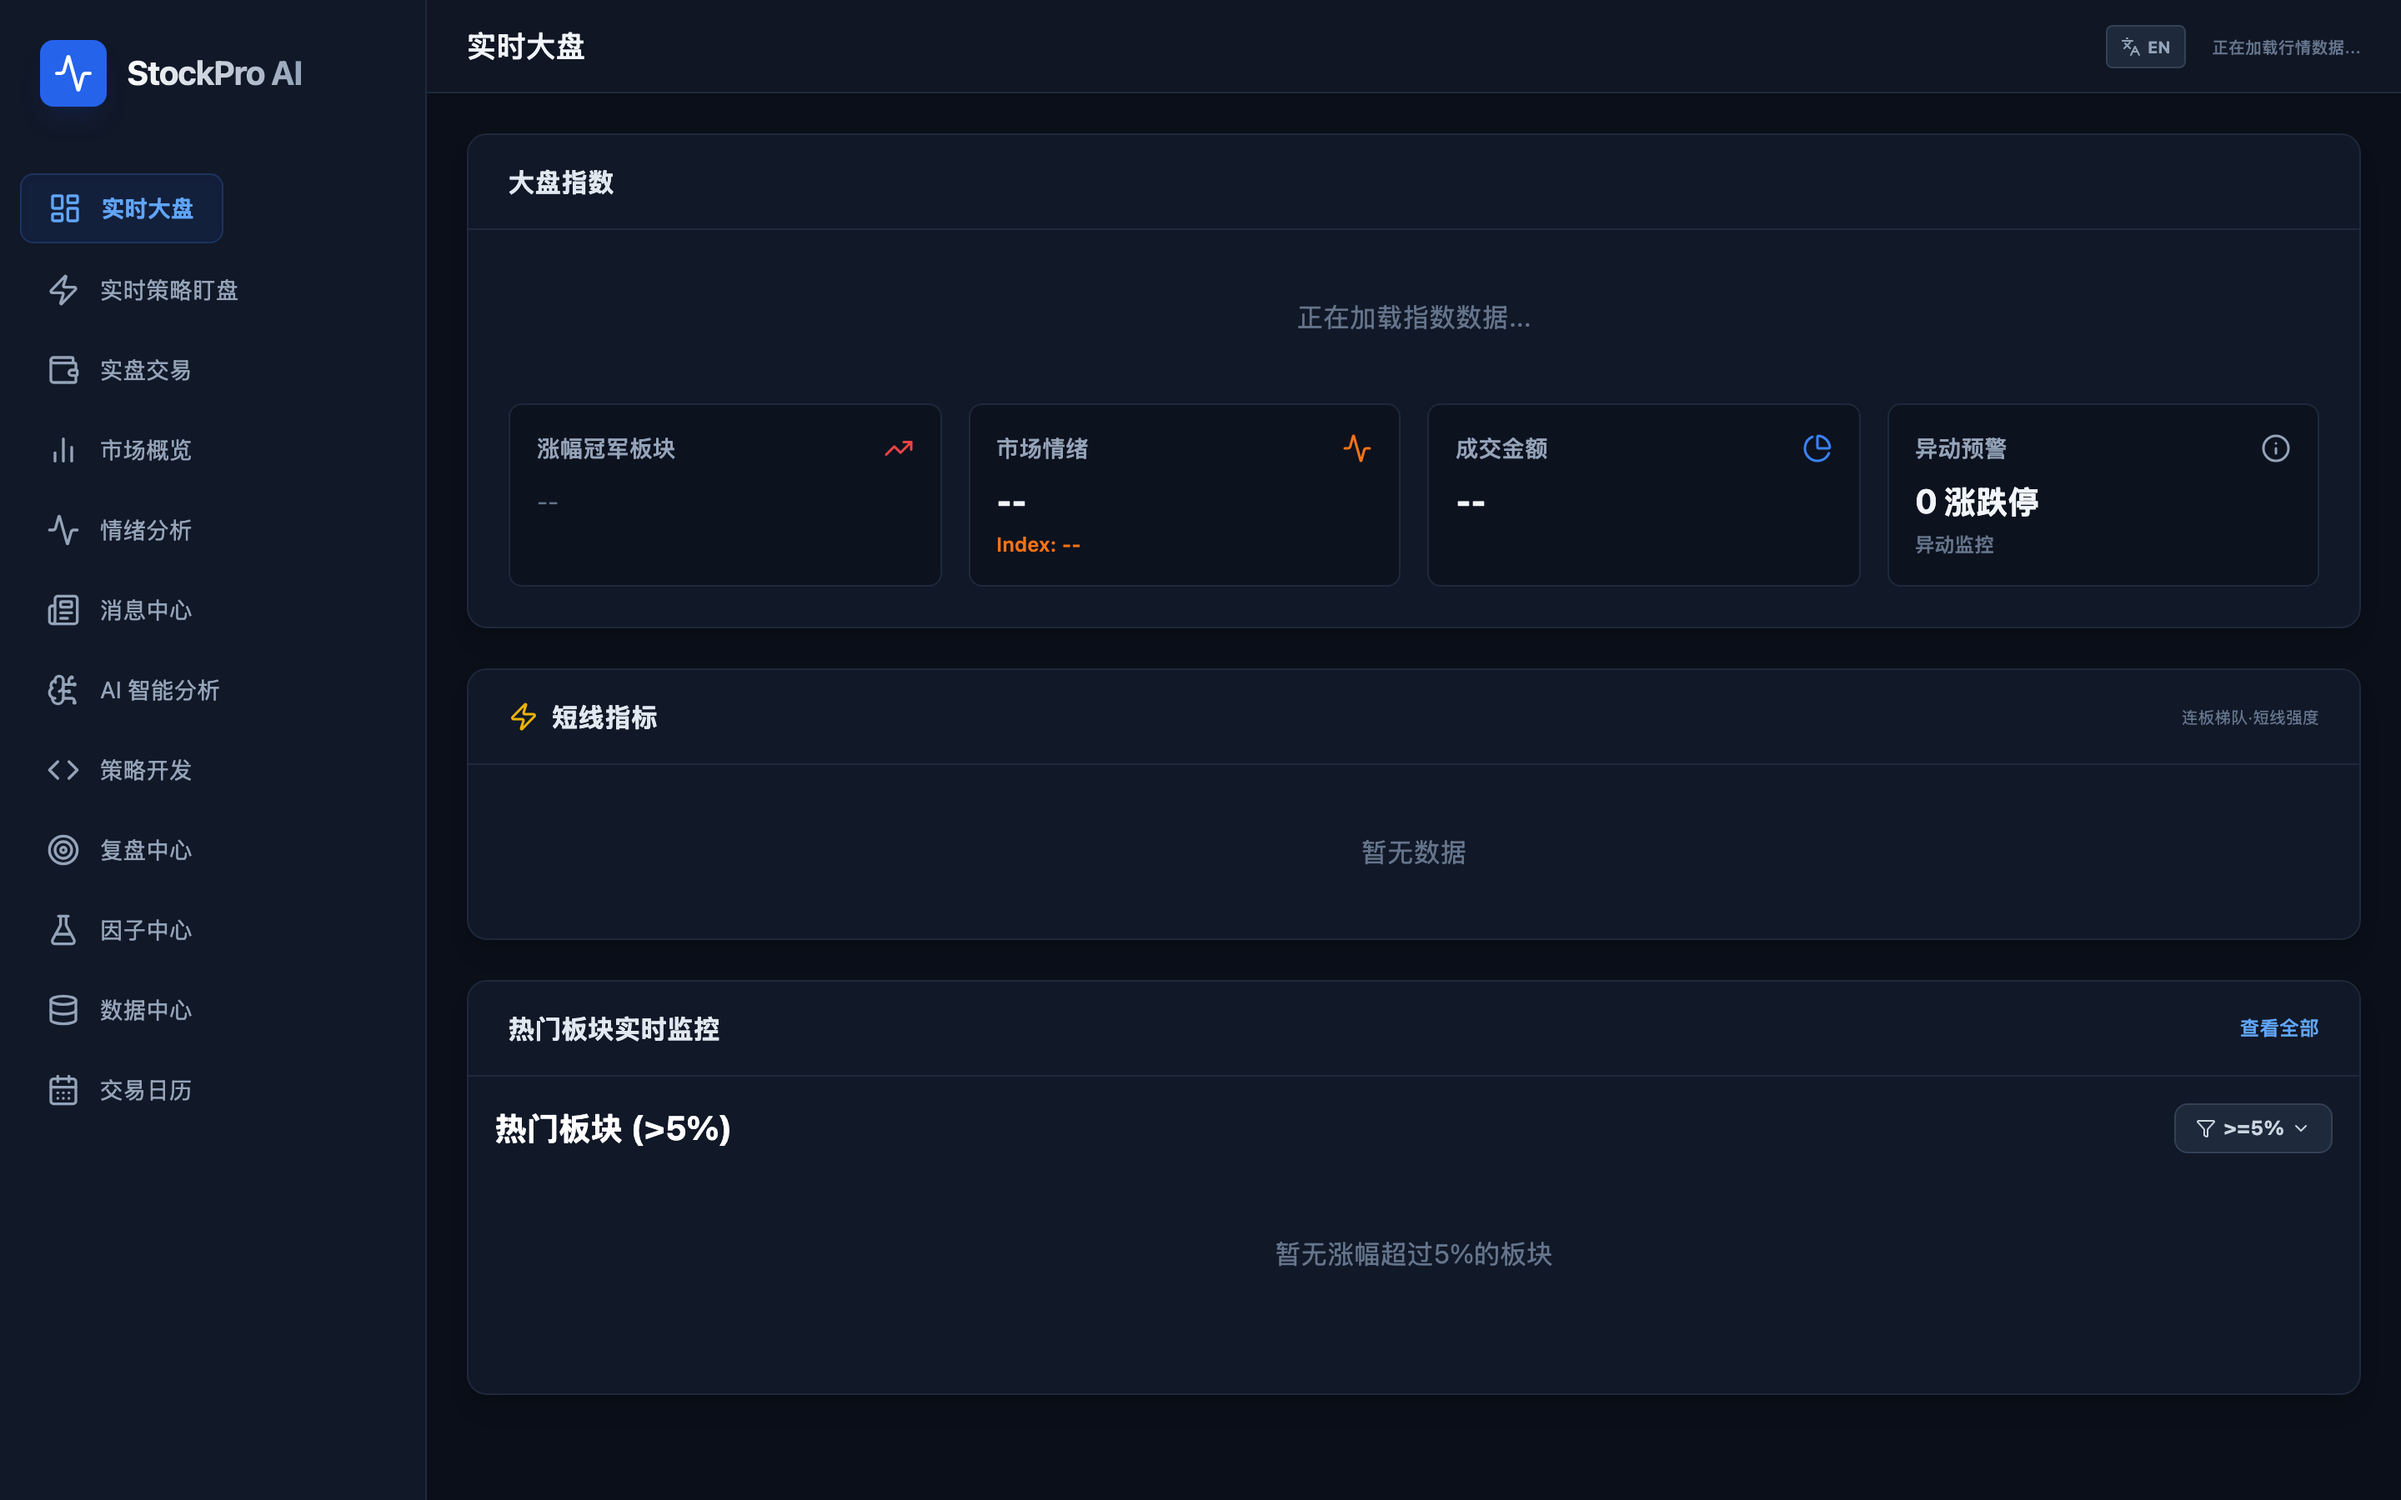
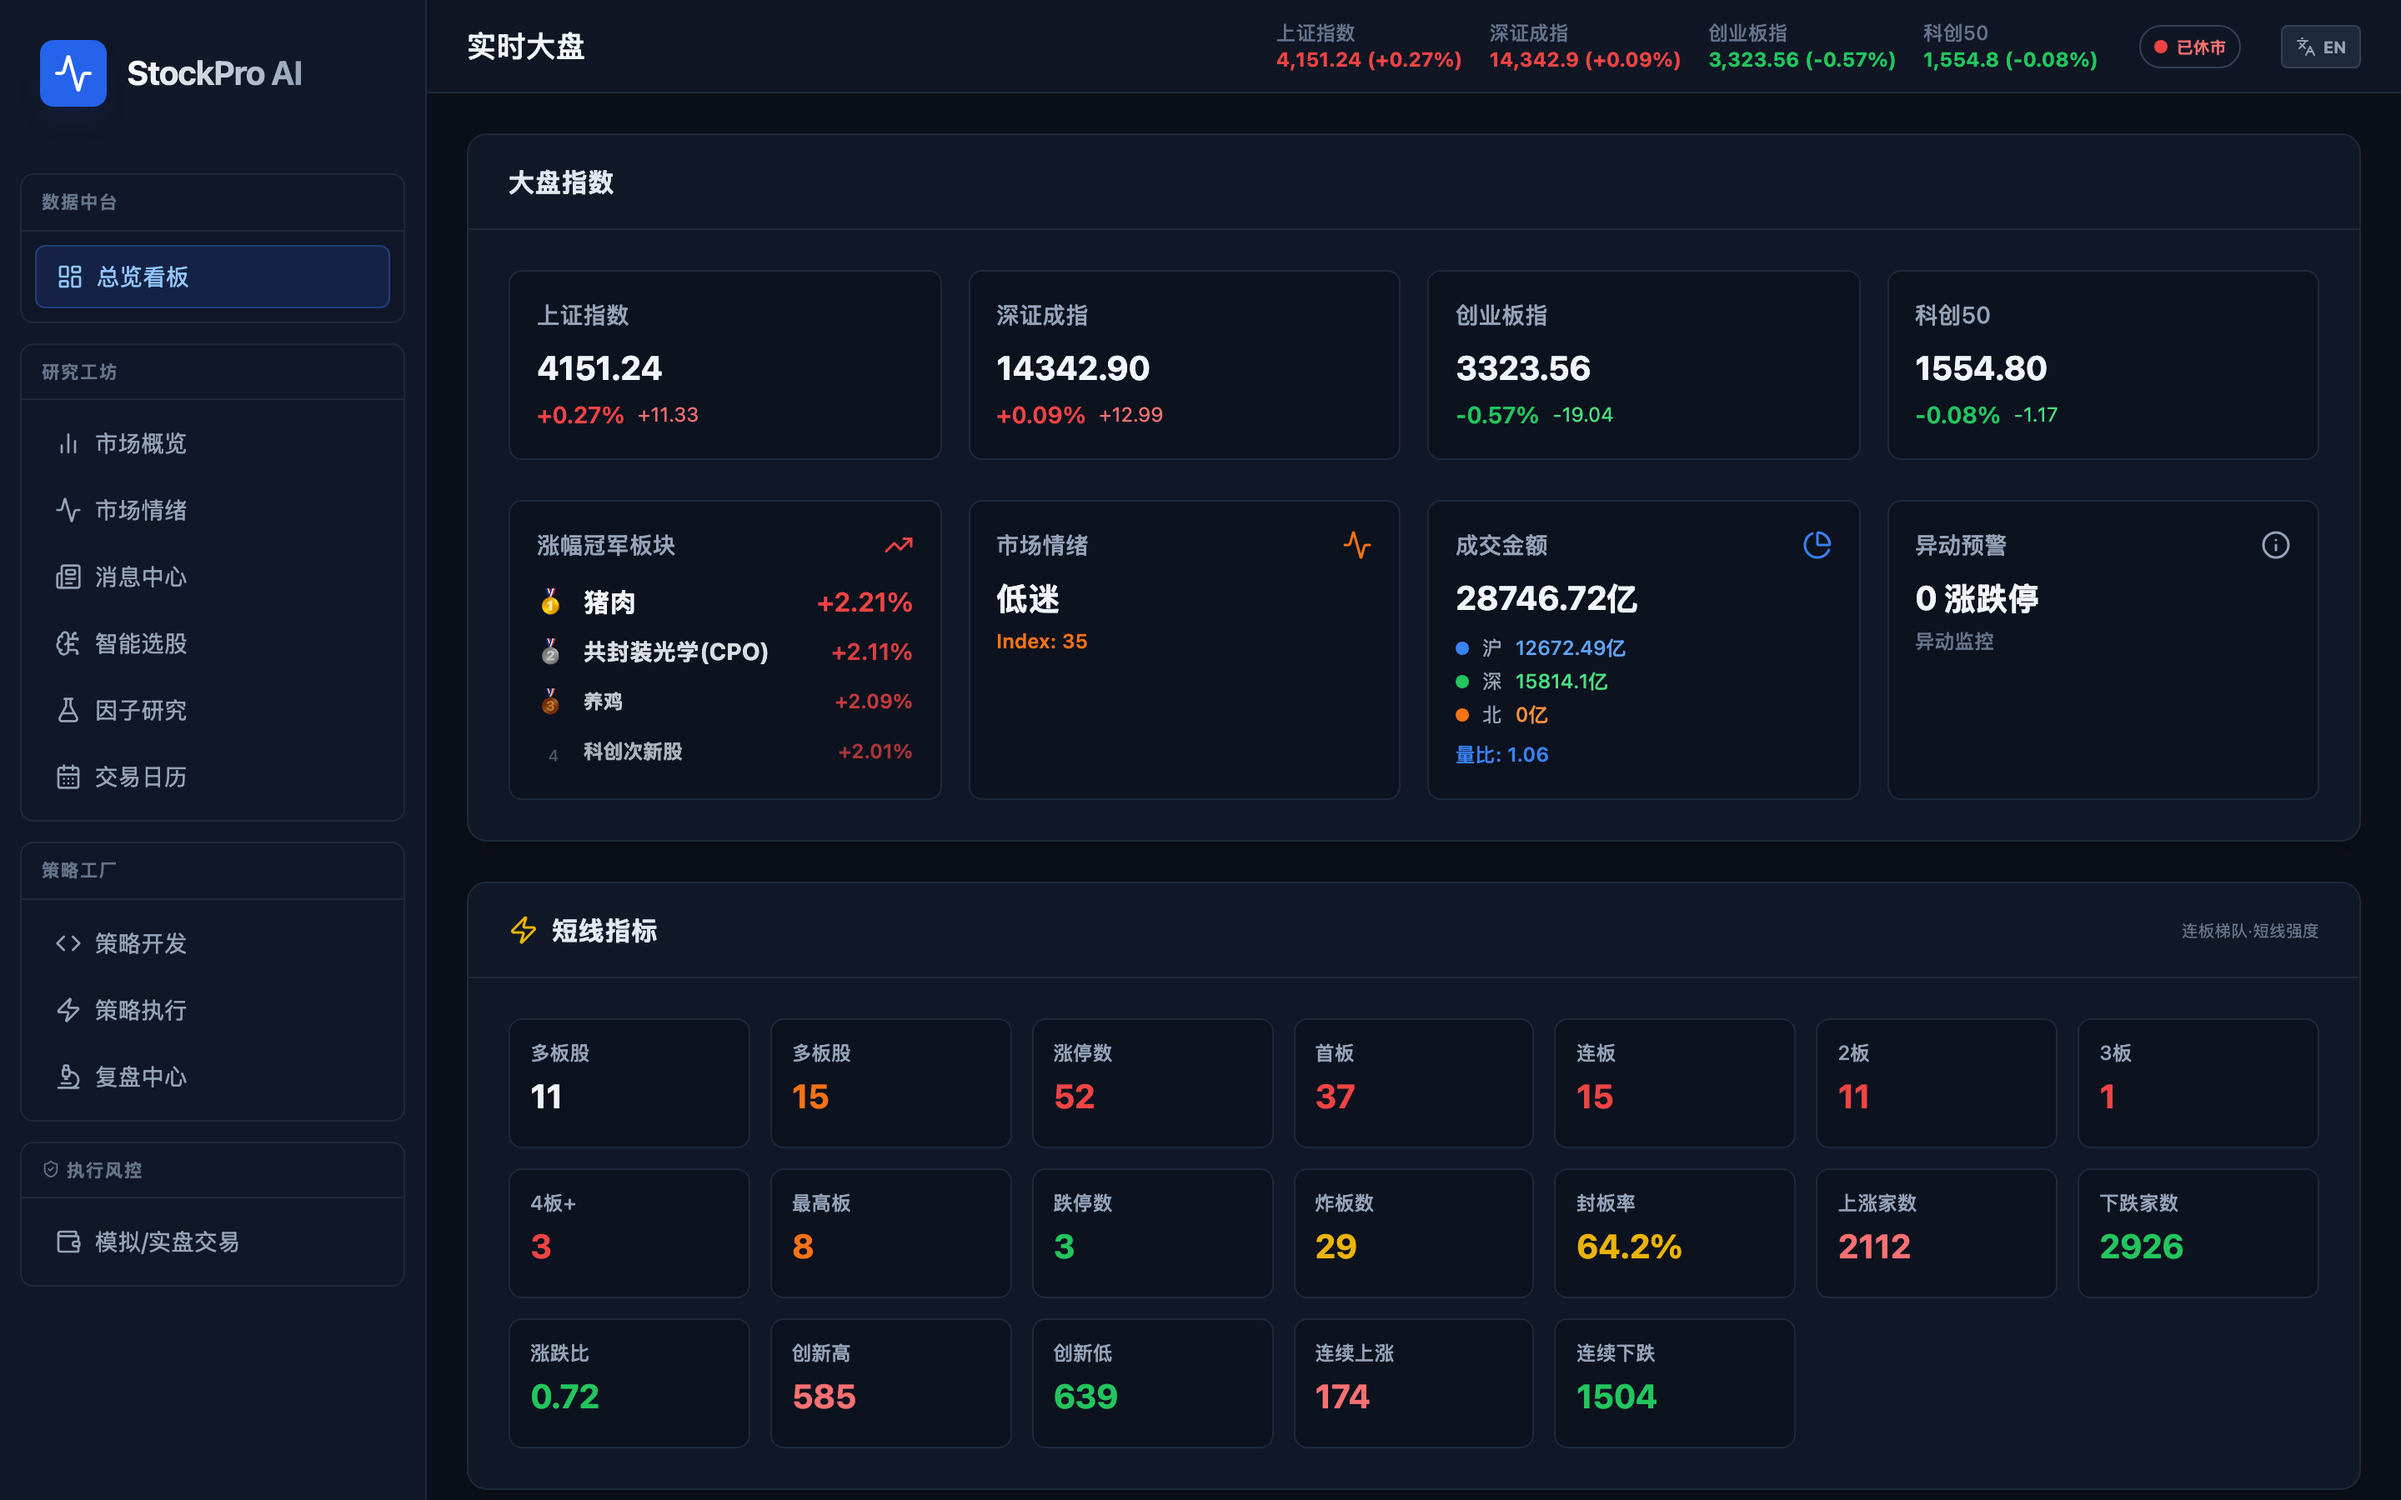
docs: 更新全部模块截图与 README，对齐当前 11 个页面
重新截取所有页面截图，确保每个页面有数据。按导航顺序重新编号
截图文件（01-dashboard 到 11-trading），并更新 README 功能模块
章节的标题、描述和图片引用。

diff --git a/README.md b/README.md
@@ -11,83 +11,71 @@
 
 ## 功能模块
 
-### 实时大盘
+### 1. 总览看板
 
-首页看板，聚合大盘指数、涨幅冠军板块、市场情绪指数、成交金额、异动预警等核心指标，搭配短线指标（连板梯队/短线强度）和热门板块实时监控，帮助用户一眼掌握全市场概貌。
+首页看板，聚合大盘指数（上证/深证/创业板/科创 50）、涨幅冠军板块、市场情绪指数、成交金额、异动预警等核心指标，搭配短线指标（连板梯队/短线强度）和热门板块实时监控，帮助用户一眼掌握全市场概貌。
 
-![实时大盘](docs/screenshots/01-dashboard.png)
+![总览看板](docs/screenshots/01-dashboard.png)
 
-### 实时策略盯盘
-
-支持同时挂载三个策略槽位，实时运行量化选股策略并展示筛选结果。左侧为命中股票列表，右侧联动 K 线图表，便于快速验证策略信号。
-
-![实时策略盯盘](docs/screenshots/02-strategy-exec.png)
-
-### 实盘交易
-
-模拟/实盘交易下单界面，包含账户概览（总资产、可用资金、持仓市值、盈亏）、买入/卖出下单、限价/市价委托切换，以及持仓、委托、成交三大记录面板。
-
-![实盘交易](docs/screenshots/03-live-trading.png)
-
-### 市场概览
+### 2. 市场概览
 
 热门概念板块、同花顺热榜、连板天梯三维度板块轮动分析。支持按日期回看历史数据，点击概念可展开查看成分股龙头和分时 K 线。
 
-![市场概览](docs/screenshots/04-market-overview.png)
+![市场概览](docs/screenshots/02-market-overview.png)
 
-### 情绪分析
+### 3. 市场情绪
 
 市场情绪量化仪表盘：0-100 情绪指数、涨跌家数与比值、涨停/跌停/炸板统计、连板高度、成交金额、量比、平盘家数等全维度数据，辅以板块涨幅 TOP10 和连板梯队分布图。
 
-![情绪分析](docs/screenshots/05-sentiment.png)
+![市场情绪](docs/screenshots/03-sentiment.png)
 
-### 消息中心
+### 4. 消息中心
 
 7×24 实时快讯聚合，支持按异动/并购重组/利好/利空/财联社/雪球/东财等来源标签筛选，可一键同步、刷新或暂停推送。
 
-![消息中心](docs/screenshots/06-news.png)
+![消息中心](docs/screenshots/04-news.png)
 
-### AI 智能分析
+### 5. 智能选股
 
 输入股票代码或名称，由千问大模型从技术面、基本面、消息面多维度进行深度分析，输出专业投资建议和风险提示。内置常用股票快捷入口。
 
-![AI 智能分析](docs/screenshots/07-ai-analysis.png)
+![智能选股](docs/screenshots/05-ai-screener.png)
 
-### 策略开发
+### 6. 因子研究
+
+量化因子管理平台，包含因子概览、因子定义、因子排名、数据同步四大功能标签页。支持一键初始化因子、同步实时/技术因子，并展示因子总数、数据记录数、覆盖股票数等统计。
+
+![因子研究](docs/screenshots/06-factor-library.png)
+
+### 7. 交易日历
+
+交割日、结算日、期权、期货等交易事件日历。支持月视图/列表视图切换，可按近期/未来/当月/全部筛选事件。
+
+![交易日历](docs/screenshots/07-calendar.png)
+
+### 8. 策略开发
 
 内置 Python 策略编辑器（Monaco Editor），可在线编写、测试和保存量化选股策略。预置放量突破等策略模板，支持自定义参数，运行后直接查看选股结果。
 
 ![策略开发](docs/screenshots/08-strategy-dev.png)
 
-### 复盘中心
+### 9. 策略执行
+
+支持同时挂载三个策略槽位，实时运行量化选股策略并展示筛选结果。左侧为命中股票列表，右侧联动 K 线图表，便于快速验证策略信号。
+
+![策略执行](docs/screenshots/09-strategy-exec.png)
+
+### 10. 复盘中心
 
 每日热门概念板块轮动复盘工具。以颜色标识相同板块的连续轮动，支持按最低涨幅、每日展示数量、历史天数进行筛选，可回填历史数据并导出。
 
-![复盘中心](docs/screenshots/09-market-pulse.png)
+![复盘中心](docs/screenshots/10-market-pulse.png)
 
-### 因子中心
+### 11. 模拟/实盘交易
 
-量化因子管理平台，包含因子概览、因子定义、因子排名、数据同步四大功能标签页。支持一键初始化因子、同步实时/技术因子，并展示因子总数、数据记录数、覆盖股票数等统计。
+模拟与实盘交易下单界面，包含账户概览（总资产、可用资金、持仓市值、盈亏）、买入/卖出下单、限价/市价委托切换，以及持仓、委托、成交三大记录面板。
 
-![因子中心](docs/screenshots/10-factor-library.png)
-
-### 数据中心
-
-数据运维工具，含数据库管理和批量导入两大功能。左侧展示本地数据表列表，右侧提供 SQL 查询编辑器（支持直接执行查询并查看结果），批量导入标签页支持历史数据回补。
-
-![数据中心](docs/screenshots/11-data-analysis.png)
-
-### 智能选股
-
-均线粘合选股工具，通过筛选 MA5/MA10/MA20/MA30 四条均线差值极小的股票来捕捉变盘信号。支持自定义持续天数、最大极差%、价格区间、返回数量等参数，一键扫描全市场。
-
-![智能选股](docs/screenshots/13-stock-screener.png)
-
-### 交易日历
-
-交割日、结算日、期权、期货等交易事件日历。支持月视图/列表视图切换，可按近期/未来/当月/全部筛选事件。
-
-![交易日历](docs/screenshots/12-calendar.png)
+![模拟/实盘交易](docs/screenshots/11-trading.png)
 
 ---
 
